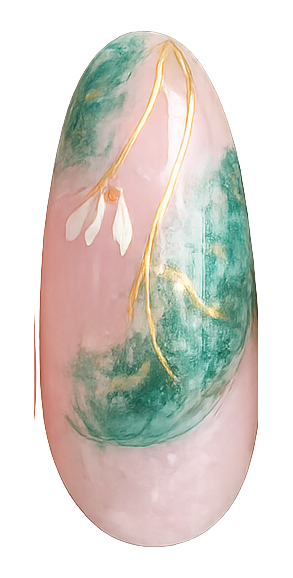
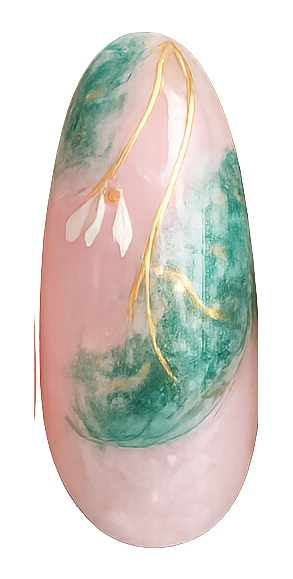
fix(nail--photo): vrai alpha + drop-shadow nail-shape restauré
Erreur précédente : ma régénération utilisait g.Clear(White) qui
ajoutait un fond blanc opaque par-dessus la transparence d'origine
de Ongles1.png (qui EST transparent à la source — pas un fond blanc
à neutraliser via mix-blend-mode).

Nouveau pipeline de découpe :
- Bitmap.Clone(rect, Format32bppArgb) → préserve l'alpha source
- Canvas vide en Format32bppArgb (pixels initialisés à 0,0,0,0)
- Graphics.DrawImage en CompositingMode.SourceOver → l'alpha source
  passe à travers
- Aucun Clear, aucune manipulation pixel/RGB hasardeuse

Vérif : nail-set-01-1.png a maintenant A=0 sur les bords (vraiment
transparent) et A=254/255 sur le corps de l'ongle. Format 32bppArgb.

Côté CSS :
- mix-blend-mode: multiply retiré (plus nécessaire, l'alpha gère
  naturellement la "transparence" autour de l'ongle)
- filter: drop-shadow restauré sur hover → suit maintenant la
  silhouette réelle de l'ongle (pas de rectangle), grâce à l'alpha

diff --git a/src/styles/components/nail.css b/src/styles/components/nail.css
@@ -76,17 +76,16 @@
   display: block;
   width: 100%;
   height: auto;
-  /* mix-blend-mode: le blanc autour de l'ongle se fond dans le bg de l'items.
-     scaleY(-1) : flip vertical pour que le tip pointe vers le bas
-     (style "teeth hanging" comme la maquette d'origine). */
-  mix-blend-mode: multiply;
+  /* Les PNG ont maintenant un vrai canal alpha (fond transparent),
+     pas besoin de mix-blend-mode. scaleY(-1) flip vertical pour
+     que le tip pointe vers le bas (maquette d'origine "teeth"). */
   transform: scaleY(-1);
 }
 .nail.nail--photo:hover {
-  /* Pas de drop-shadow : tant que les PNG ont un fond blanc opaque
-     (pas d'alpha), drop-shadow dessine un rectangle moche. On garde
-     juste le lift + scale + rotation pour le feedback hover. */
+  /* Le drop-shadow suit maintenant la silhouette réelle de l'ongle
+     grâce à l'alpha de l'image — plus d'ombre rectangulaire. */
   transform: translateY(-12px) scale(1.08) rotate(-1.5deg);
+  filter: drop-shadow(6px 10px 0 var(--c-ink));
   z-index: 2;
 }
 
